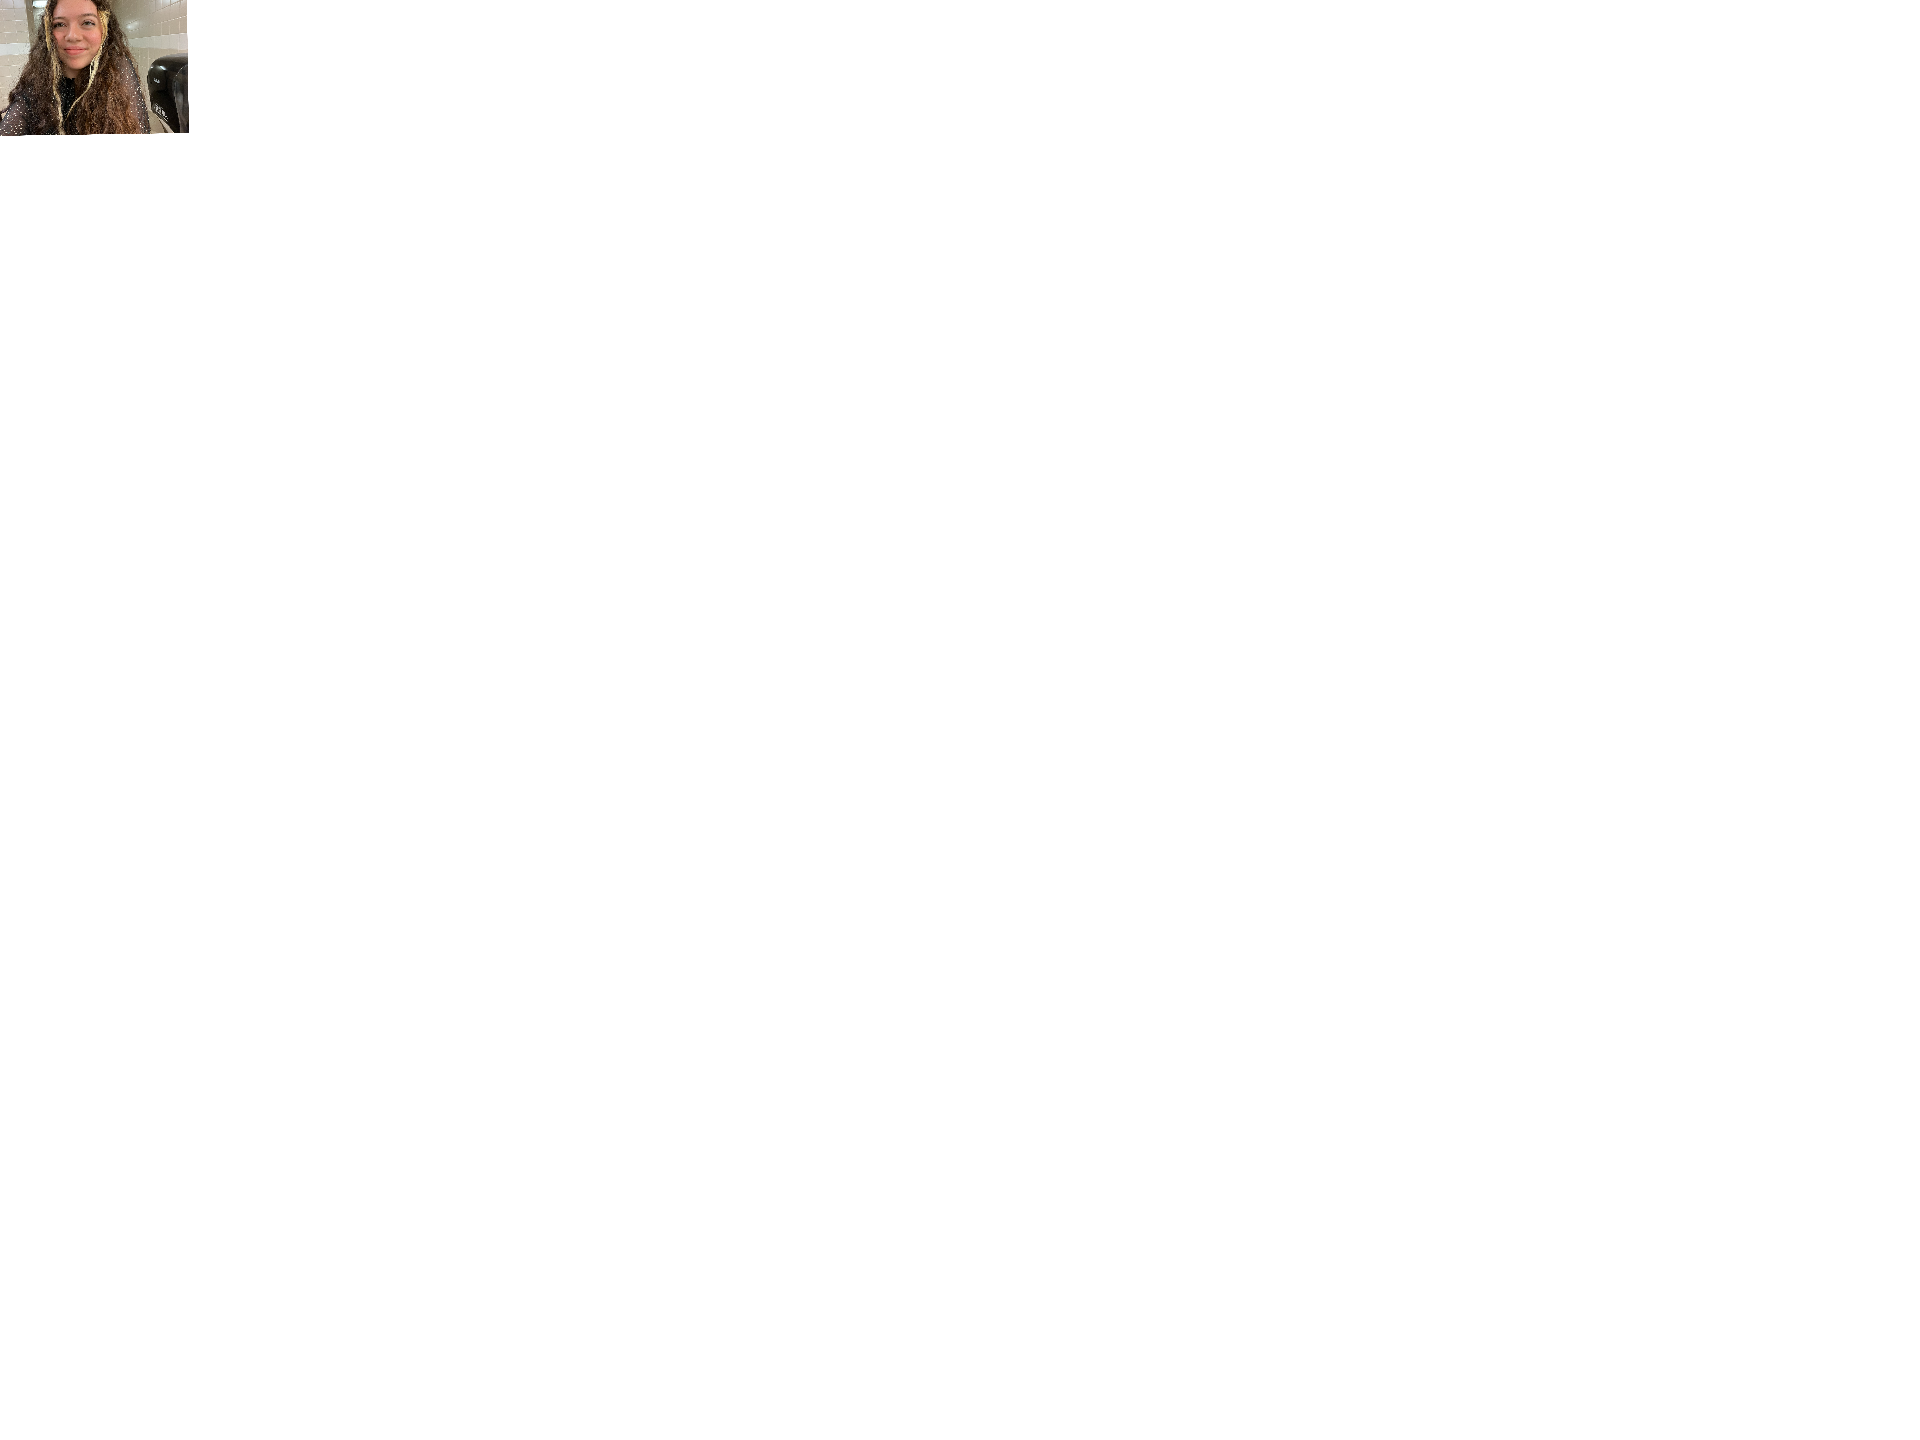
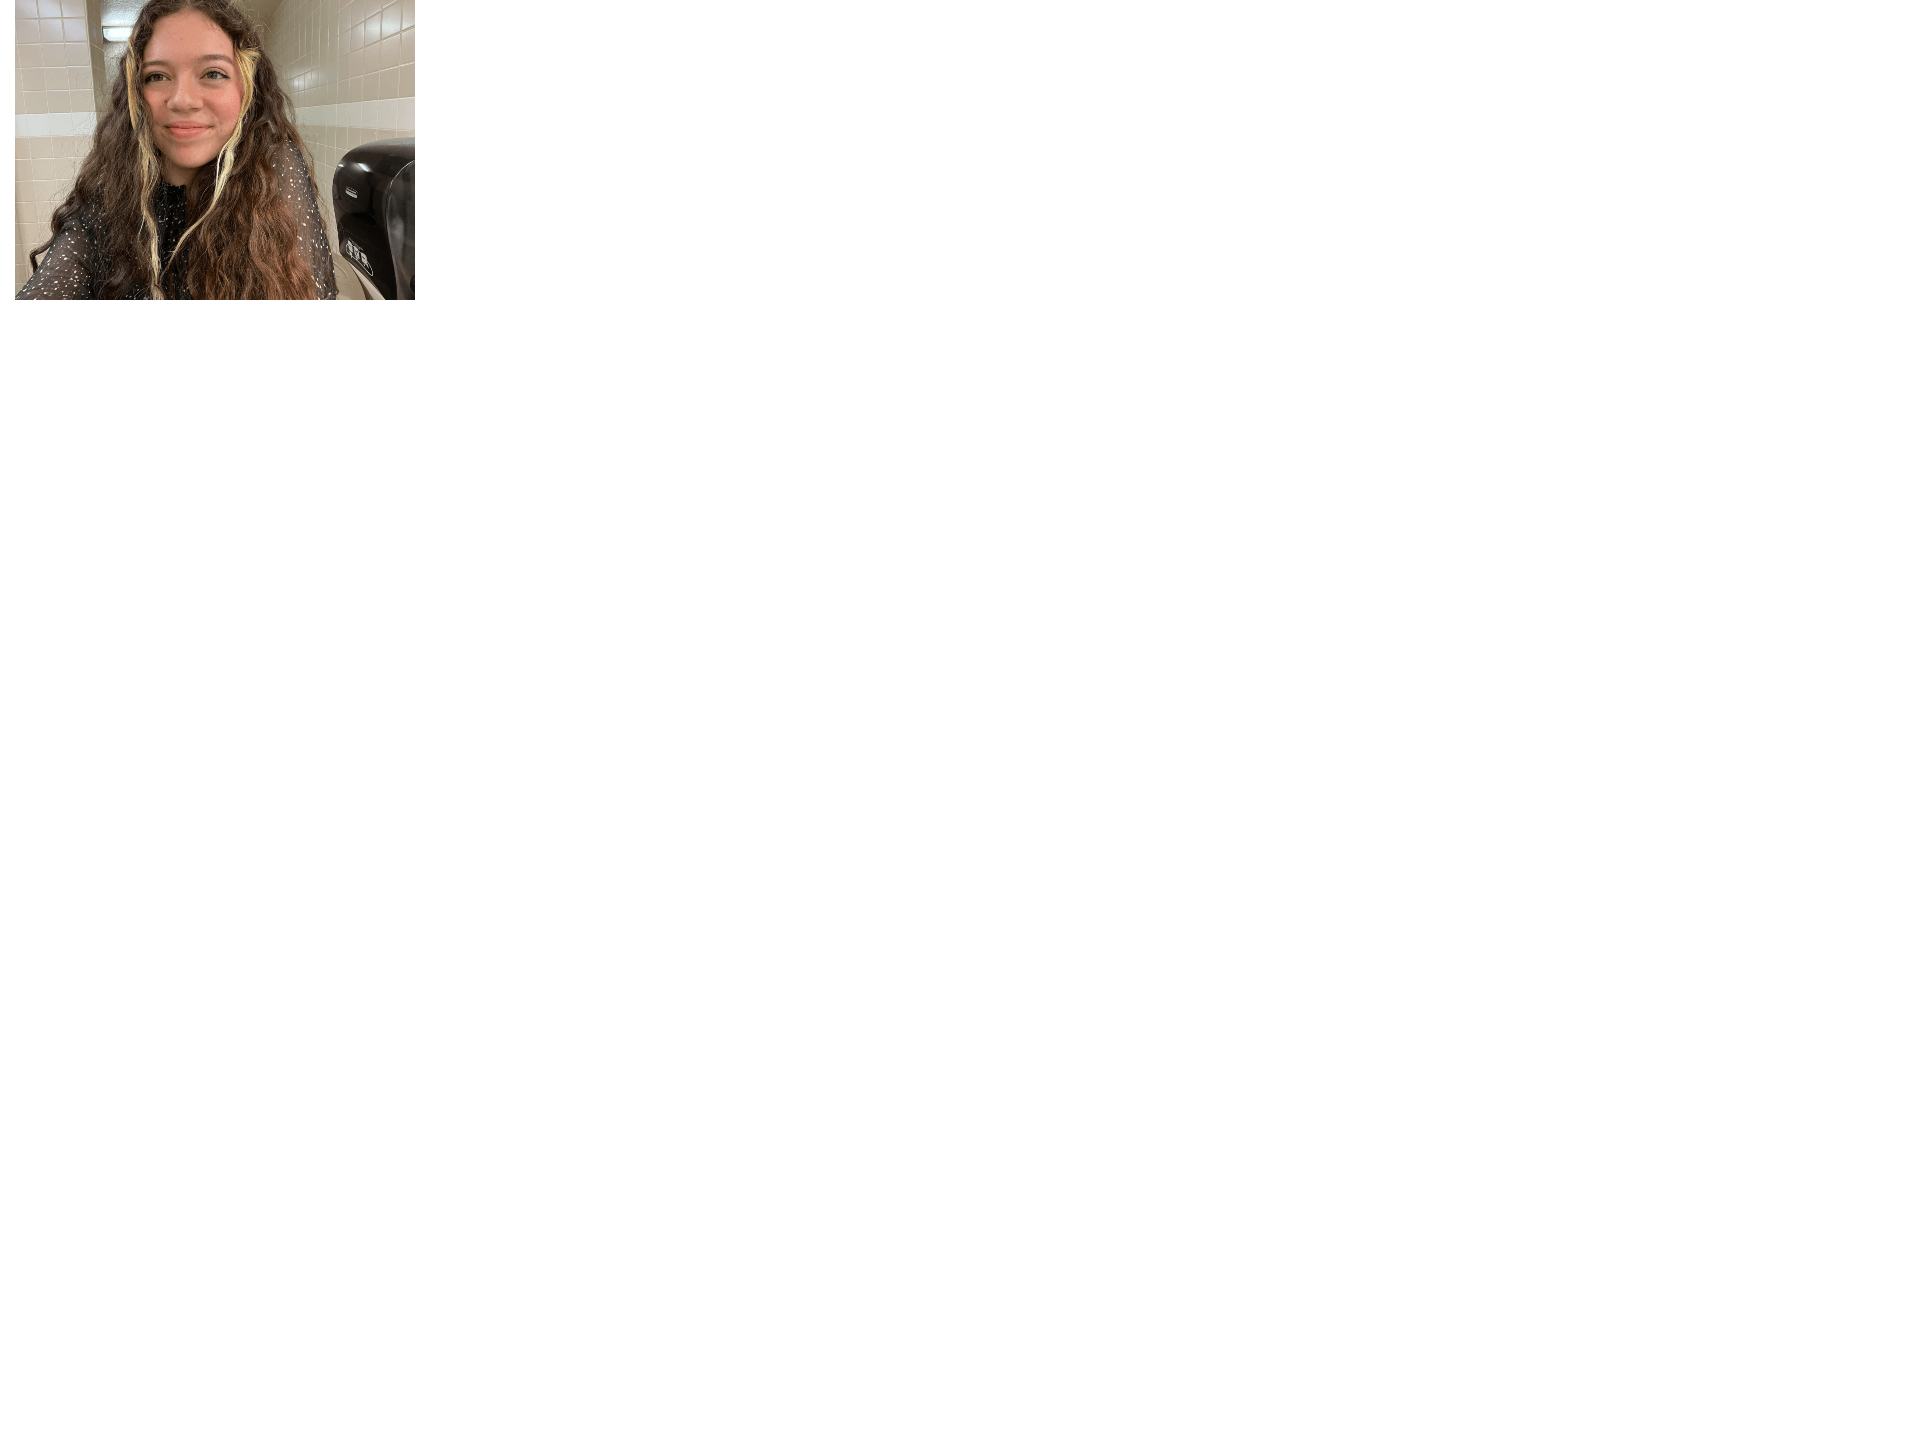
added

Changed region(s): [[0.0, 0.0, 0.2188, 0.2188]]

diff --git a/index.html b/index.html
@@ -21,7 +21,7 @@
             <h1>Celeste George</h1>
             <img src="images/celeste-profile-pic-small.png" 
                 width="400"
-                height="500"
+                height="300"
                 alt="profile image of celeste">
         </header>
         <main>
